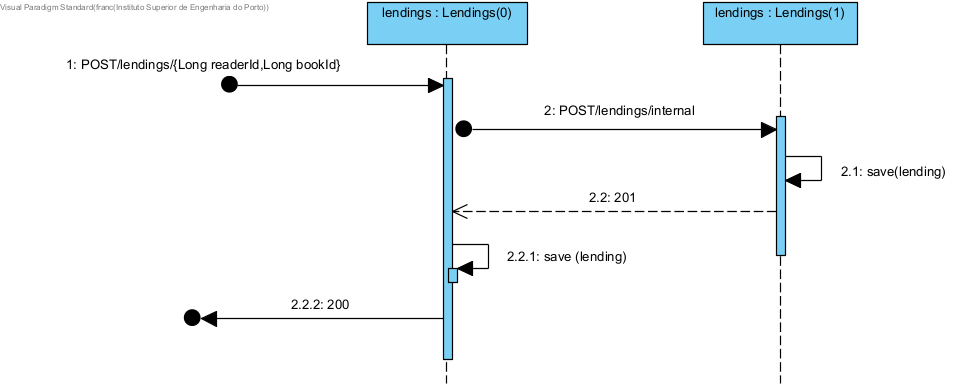
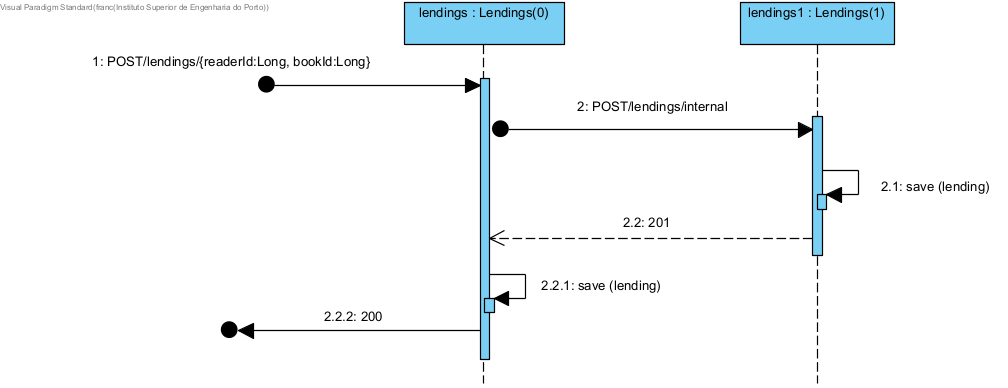
Updates in ReadMe.md,Docs

diff --git a/Docs/SIDIS/Vistas de Processos/ReadMe.md b/Docs/SIDIS/Vistas de Processos/ReadMe.md
@@ -1,75 +1,37 @@
-# US 01 -  user credential data for librarians
-
+# Vistas de Processos
 ## 1. Requirements Engineering
 
-### 1.1. User Story Description
+### 1.1. Description
 
-As Admin, I want to user credential data for librarians.
+![VF-N1](VF-N1.png)
+- explicar as vistas
 
-### 1.2. Customer Specifications and Clarifications
+![VF-N2](VF-N2.png)
+- explicar as vistas
 
-**From the specifications document:**
+![VF-N3](VF-N3.png)
+- explicar as vistas
 
->
+![VL-N1](VL-N1.png)
+- explicar as vistas
 
-**From the client clarifications:**
+![VL-N2](VL-N2.png)
+- explicar as vistas
 
-> **Question:**
->
-> **Answer:**
->
+![VL-N3](VL-N3.png)
+- explicar as vistas
 
-### 1.3. Acceptance Criteria
+![VL-N3](VL-N4.png)
+- explicar as vistas
 
--n/a
+### 1.2 Functionality
 
-### 1.4. Found out Dependencies
+- n/a falar do /internal e das escolhas feitas token,Auth etc
 
-* No dependencies were found.
-
-### 1.5 Input and Output Data
-
-**Input Data:**
-
-- Typed Data:
-    - n/a
-
-**Output Data:**
-
-- Success of the operation.
-
-### 1.6 Functionality
+### 1.3 Other Relevant Remarks
 
 - n/a
 
-### 1.7 Other Relevant Remarks
-
-- n/a
-
-## 2. OO Analysis
-
-### 2.1. Relevant Domain Model Excerpt
-
-![US01-DM](US01-DM.svg)
-
-### 2.2. Other Remarks
-
-- n/a
-
-## 3. Design - User Story Realization
-
-### 3.1. Sequence Diagram (SD)
-
-![US01-SD](US01-SD.svg)
-
-### 3.2. Class Diagram (CD)
-
-![US01-CD](US01-CD.svg)
-
-## 4. Tests
-
-- n/a
-
-## 5. Observations
+## 2. Observations
 
 - n/a

diff --git a/Docs/SIDIS/Global Artifacts/Vista Física/ReadMe.md b/Docs/SIDIS/Global Artifacts/Vista Física/ReadMe.md
@@ -1,75 +1,27 @@
-# US 01 -  user credential data for librarians
-
+# Vista Física
 ## 1. Requirements Engineering
 
-### 1.1. User Story Description
+### 1.1. Description
 
-As Admin, I want to  user credential data for librarians.
+- explicar as vistas
 
-### 1.2. Customer Specifications and Clarifications
+![VF-N1](VF-N1.png)
+- explicar as vistas
 
-**From the specifications document:**
+![VF-N2](VF-N2.png)
+- explicar as vistas
 
->
+![VF-N3](VF-N3.png)
+- explicar as vistas
 
-**From the client clarifications:**
-
-> **Question:**
->
-> **Answer:**
->
-
-### 1.3. Acceptance Criteria
-
--n/a
-
-### 1.4. Found out Dependencies
-
-* No dependencies were found.
-
-### 1.5 Input and Output Data
-
-**Input Data:**
-
-- Typed Data:
-    - n/a
-
-**Output Data:**
-
-- Success of the operation.
-
-### 1.6 Functionality
+### 1.2 Functionality
 
 - n/a
 
-### 1.7 Other Relevant Remarks
+### 1.3 Other Relevant Remarks
 
 - n/a
 
-## 2. OO Analysis
-
-### 2.1. Relevant Domain Model Excerpt
-
-![US01-DM](US01-DM.svg)
-
-### 2.2. Other Remarks
-
-- n/a
-
-## 3. Design - User Story Realization
-
-### 3.1. Sequence Diagram (SD)
-
-![US01-SD](US01-SD.svg)
-
-### 3.2. Class Diagram (CD)
-
-![US01-CD](US01-CD.svg)
-
-## 4. Tests
-
-- n/a
-
-## 5. Observations
+## 2. Observations
 
 - n/a

diff --git a/Docs/SIDIS/Global Artifacts/ReadMe.md b/Docs/SIDIS/Global Artifacts/ReadMe.md
@@ -1,8 +1,15 @@
-# Vista Lógica
+# Global Artifacts
 ## 1. Requirements Engineering
 
 ### 1.1. Description
 
+![VF-N1](VF-N1.png)
+- explicar as vistas
+
+![VF-N2](VF-N2.png)
+- explicar as vistas
+
+![VF-N3](VF-N3.png)
 - explicar as vistas
 
 ![VL-N1](VL-N1.png)
@@ -19,7 +26,7 @@
 
 ### 1.2 Functionality
 
-- n/a
+- n/a falar do /internal e das escolhas feitas token,Auth etc
 
 ### 1.3 Other Relevant Remarks
 
